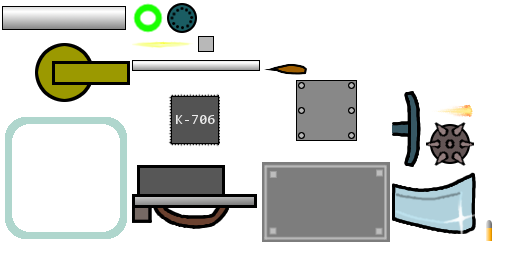
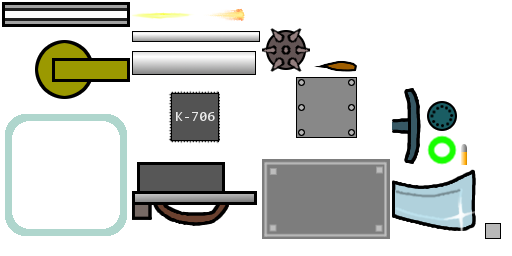
N

diff --git a/ringofoil/src/com/ironalloygames/ringofoil/EditorState.java b/ringofoil/src/com/ironalloygames/ringofoil/EditorState.java
@@ -12,6 +12,7 @@ import com.ironalloygames.ringofoil.component.Arm;
 import com.ironalloygames.ringofoil.component.Armor;
 import com.ironalloygames.ringofoil.component.Attachment;
 import com.ironalloygames.ringofoil.component.Attachment.AttachmentPoint;
+import com.ironalloygames.ringofoil.component.Beam;
 import com.ironalloygames.ringofoil.component.Blade;
 import com.ironalloygames.ringofoil.component.CPU;
 import com.ironalloygames.ringofoil.component.Cannon;
@@ -60,6 +61,7 @@ public class EditorState extends GameState {
 		palette.add(new PaletteItem(new Armor(), "Armor: Very tough, especially against blades and bullets."));
 		palette.add(new PaletteItem(new Cannon(), "Cannon: Extremely high damage, but very limited ammo."));
 		palette.add(new PaletteItem(new Blade(), "Blade: Sharp cutting edge, deals great damage versus unarmored."));
+		palette.add(new PaletteItem(new Beam(), "Beam: Long structural component. Very flimsy."));
 	}
 
 	@Override
@@ -215,6 +217,9 @@ public class EditorState extends GameState {
 							break;
 						case 7:
 							comp = new Blade();
+							break;
+						case 8:
+							comp = new Beam();
 							break;
 						}
 

diff --git a/ringofoil/src/com/ironalloygames/ringofoil/component/Beam.java b/ringofoil/src/com/ironalloygames/ringofoil/component/Beam.java
@@ -1,0 +1,42 @@
+package com.ironalloygames.ringofoil.component;
+
+import com.badlogic.gdx.math.Vector2;
+import com.ironalloygames.ringofoil.entity.BeamEntity;
+import com.ironalloygames.ringofoil.entity.ComponentEntity;
+
+public class Beam extends Component {
+
+	/**
+	 * 
+	 */
+	private static final long serialVersionUID = 4425996261038365833L;
+
+	@Override
+	public ComponentEntity createEntity(Vector2 robotCenter, boolean flipped) {
+		return new BeamEntity(this, robotCenter, flipped);
+	}
+
+	@Override
+	public Vector2 getBoundingBox() {
+		return new Vector2(128f * SCALE / 128f, 25f * SCALE / 128f);
+	}
+
+	@Override
+	public float getHp() {
+		return .5f;
+	}
+
+	@Override
+	protected int getUnitCost() {
+		return 8;
+	}
+
+	@Override
+	public void render(Vector2 position, float rotation, boolean flipped) {
+		super.render(position, rotation, flipped);
+
+		renderSized(position, rotation, flipped, "beam");
+
+	}
+
+}

diff --git a/ringofoil/src/com/ironalloygames/ringofoil/entity/BeamEntity.java b/ringofoil/src/com/ironalloygames/ringofoil/entity/BeamEntity.java
@@ -1,0 +1,15 @@
+package com.ironalloygames.ringofoil.entity;
+
+import com.badlogic.gdx.math.Vector2;
+import com.ironalloygames.ringofoil.component.Component;
+
+public class BeamEntity extends ComponentEntity {
+	public BeamEntity(Component structure, Vector2 robotCenter, boolean flipped) {
+		super(structure, robotCenter, flipped);
+	}
+
+	@Override
+	public boolean canBePunctured() {
+		return false;
+	}
+}

diff --git a/ringofoil/src/com/ironalloygames/ringofoil/component/LargeMace.java b/ringofoil/src/com/ironalloygames/ringofoil/component/LargeMace.java
@@ -26,6 +26,11 @@ public class LargeMace extends Component {
 	}
 
 	@Override
+	public float getHeavyDamageReduction() {
+		return super.getHeavyDamageReduction() + 0.15f;
+	}
+
+	@Override
 	public float getLightDamageResistance() {
 		return .25f;
 	}

diff --git a/ringofoil/src/com/ironalloygames/ringofoil/component/Blade.java b/ringofoil/src/com/ironalloygames/ringofoil/component/Blade.java
@@ -27,6 +27,11 @@ public class Blade extends Component {
 	}
 
 	@Override
+	public float getHeavyDamageReduction() {
+		return super.getHeavyDamageReduction() + 0.15f;
+	}
+
+	@Override
 	public float getLightDamageMultiplier() {
 		return 7f;
 	}
